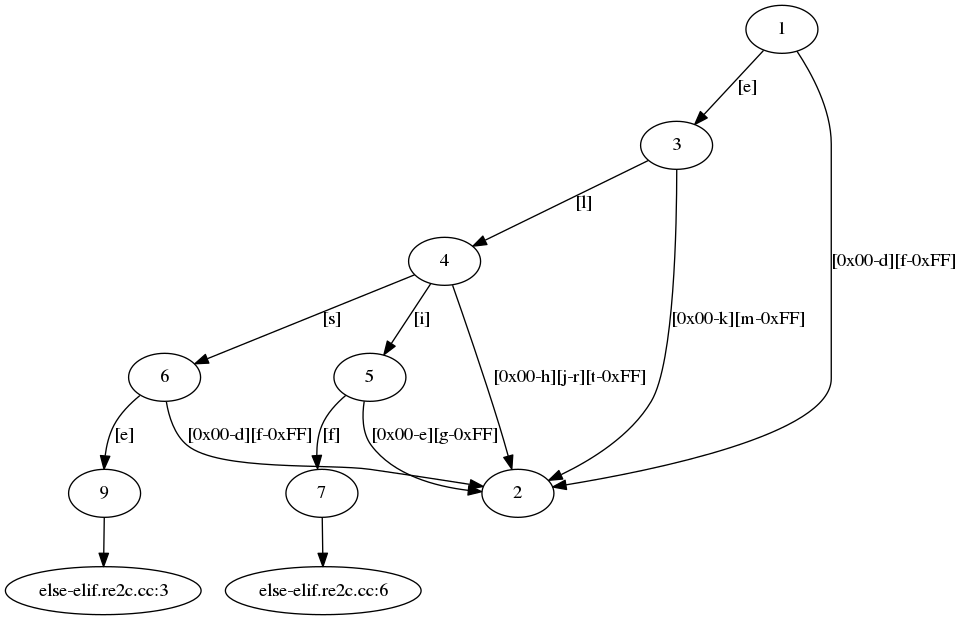
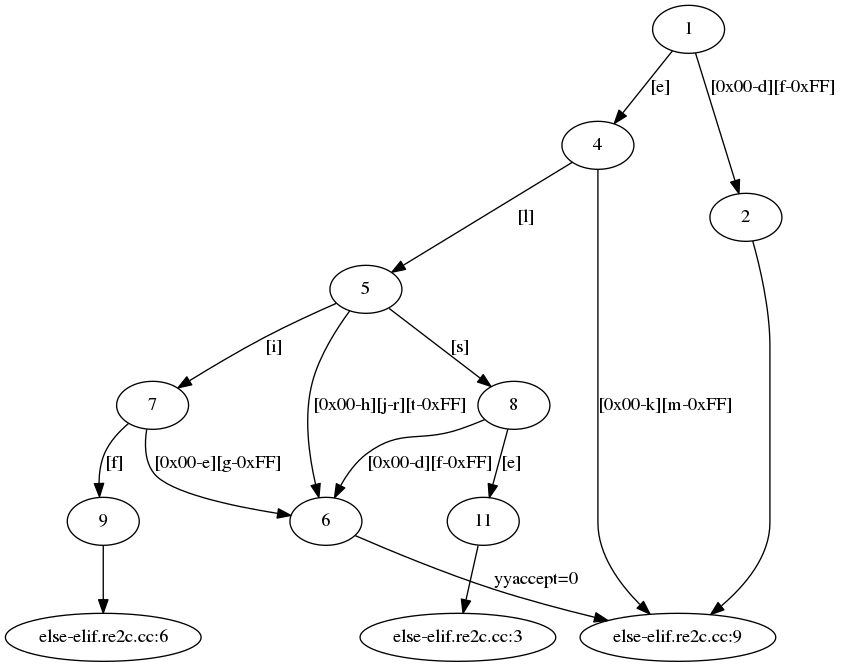
[fgrep-problem-benchmarks] Also generate C code.
Redraw else-elif too.

diff --git a/fgrep-problem-benchmarks/_gen/trie.cc b/fgrep-problem-benchmarks/_gen/trie.cc
@@ -1,0 +1,85 @@
+/* Generated by re2c 1.0.3 on Wed Dec 30 22:05:54 2020 */
+#line 1 "trie.re2c.cc"
+
+#line 5 "_gen/trie.cc"
+{
+	YYCTYPE yych;
+	unsigned int yyaccept = 0;
+	if ((YYLIMIT - YYCURSOR) < 5) YYFILL(5);
+	yych = *YYCURSOR;
+	switch (yych) {
+	case 'b':	goto yy4;
+	case 'd':	goto yy5;
+	default:	goto yy2;
+	}
+yy2:
+	++YYCURSOR;
+yy3:
+#line 6 "trie.re2c.cc"
+	{
+    printf("other\n");
+  }
+#line 23 "_gen/trie.cc"
+yy4:
+	yyaccept = 0;
+	yych = *(YYMARKER = ++YYCURSOR);
+	switch (yych) {
+	case 'r':	goto yy6;
+	default:	goto yy3;
+	}
+yy5:
+	yych = *++YYCURSOR;
+	switch (yych) {
+	case 'o':	goto yy8;
+	default:	goto yy3;
+	}
+yy6:
+	yych = *++YYCURSOR;
+	switch (yych) {
+	case 'e':	goto yy10;
+	default:	goto yy7;
+	}
+yy7:
+	YYCURSOR = YYMARKER;
+	if (yyaccept == 0) {
+		goto yy3;
+	} else {
+		goto yy9;
+	}
+yy8:
+	yyaccept = 1;
+	yych = *(YYMARKER = ++YYCURSOR);
+	switch (yych) {
+	case 'n':	goto yy11;
+	default:	goto yy9;
+	}
+yy9:
+#line 3 "trie.re2c.cc"
+	{
+    printf("keyword\n");
+  }
+#line 62 "_gen/trie.cc"
+yy10:
+	yych = *++YYCURSOR;
+	switch (yych) {
+	case 'a':	goto yy12;
+	default:	goto yy7;
+	}
+yy11:
+	yych = *++YYCURSOR;
+	switch (yych) {
+	case 'e':	goto yy13;
+	default:	goto yy7;
+	}
+yy12:
+	yych = *++YYCURSOR;
+	switch (yych) {
+	case 'k':	goto yy13;
+	default:	goto yy7;
+	}
+yy13:
+	++YYCURSOR;
+	goto yy9;
+}
+#line 10 "trie.re2c.cc"
+

diff --git a/fgrep-problem-benchmarks/_gen/else-elif.cc b/fgrep-problem-benchmarks/_gen/else-elif.cc
@@ -1,0 +1,65 @@
+/* Generated by re2c 1.0.3 on Wed Dec 30 22:05:54 2020 */
+#line 1 "else-elif.re2c.cc"
+
+#line 5 "_gen/else-elif.cc"
+{
+	YYCTYPE yych;
+	if ((YYLIMIT - YYCURSOR) < 4) YYFILL(4);
+	yych = *YYCURSOR;
+	switch (yych) {
+	case 'e':	goto yy4;
+	default:	goto yy2;
+	}
+yy2:
+	++YYCURSOR;
+yy3:
+#line 9 "else-elif.re2c.cc"
+	{
+    printf("other\n");
+  }
+#line 21 "_gen/else-elif.cc"
+yy4:
+	yych = *(YYMARKER = ++YYCURSOR);
+	switch (yych) {
+	case 'l':	goto yy5;
+	default:	goto yy3;
+	}
+yy5:
+	yych = *++YYCURSOR;
+	switch (yych) {
+	case 'i':	goto yy7;
+	case 's':	goto yy8;
+	default:	goto yy6;
+	}
+yy6:
+	YYCURSOR = YYMARKER;
+	goto yy3;
+yy7:
+	yych = *++YYCURSOR;
+	switch (yych) {
+	case 'f':	goto yy9;
+	default:	goto yy6;
+	}
+yy8:
+	yych = *++YYCURSOR;
+	switch (yych) {
+	case 'e':	goto yy11;
+	default:	goto yy6;
+	}
+yy9:
+	++YYCURSOR;
+#line 6 "else-elif.re2c.cc"
+	{
+    printf("elif\n");
+  }
+#line 56 "_gen/else-elif.cc"
+yy11:
+	++YYCURSOR;
+#line 3 "else-elif.re2c.cc"
+	{
+    printf("else\n");
+  }
+#line 63 "_gen/else-elif.cc"
+}
+#line 13 "else-elif.re2c.cc"
+

diff --git a/fgrep-problem-benchmarks/_gen/do-done.cc b/fgrep-problem-benchmarks/_gen/do-done.cc
@@ -1,0 +1,57 @@
+/* Generated by re2c 1.0.3 on Wed Dec 30 22:05:54 2020 */
+#line 1 "do-done.re2c.cc"
+
+#line 5 "_gen/do-done.cc"
+{
+	YYCTYPE yych;
+	if ((YYLIMIT - YYCURSOR) < 4) YYFILL(4);
+	yych = *YYCURSOR;
+	switch (yych) {
+	case 'd':	goto yy4;
+	default:	goto yy2;
+	}
+yy2:
+	++YYCURSOR;
+yy3:
+#line 9 "do-done.re2c.cc"
+	{
+    printf("other\n");
+  }
+#line 21 "_gen/do-done.cc"
+yy4:
+	yych = *++YYCURSOR;
+	switch (yych) {
+	case 'o':	goto yy5;
+	default:	goto yy3;
+	}
+yy5:
+	yych = *(YYMARKER = ++YYCURSOR);
+	switch (yych) {
+	case 'n':	goto yy7;
+	default:	goto yy6;
+	}
+yy6:
+#line 3 "do-done.re2c.cc"
+	{
+    printf("do\n");
+  }
+#line 39 "_gen/do-done.cc"
+yy7:
+	yych = *++YYCURSOR;
+	switch (yych) {
+	case 'e':	goto yy9;
+	default:	goto yy8;
+	}
+yy8:
+	YYCURSOR = YYMARKER;
+	goto yy6;
+yy9:
+	++YYCURSOR;
+#line 6 "do-done.re2c.cc"
+	{
+    printf("done\n");
+  }
+#line 55 "_gen/do-done.cc"
+}
+#line 13 "do-done.re2c.cc"
+

diff --git a/fgrep-problem-benchmarks/else-elif.re2c.cc b/fgrep-problem-benchmarks/else-elif.re2c.cc
@@ -6,5 +6,8 @@
   "elif" {
     printf("elif\n");
   }
+  * {
+    printf("NO MATCH\n");
+  }
 
 */
